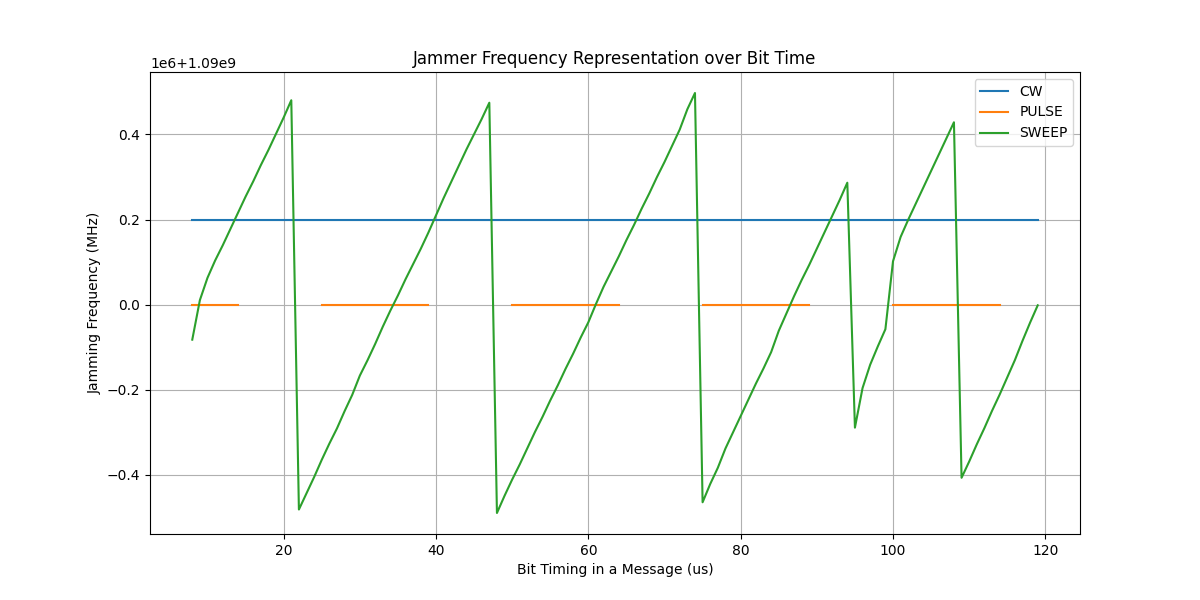
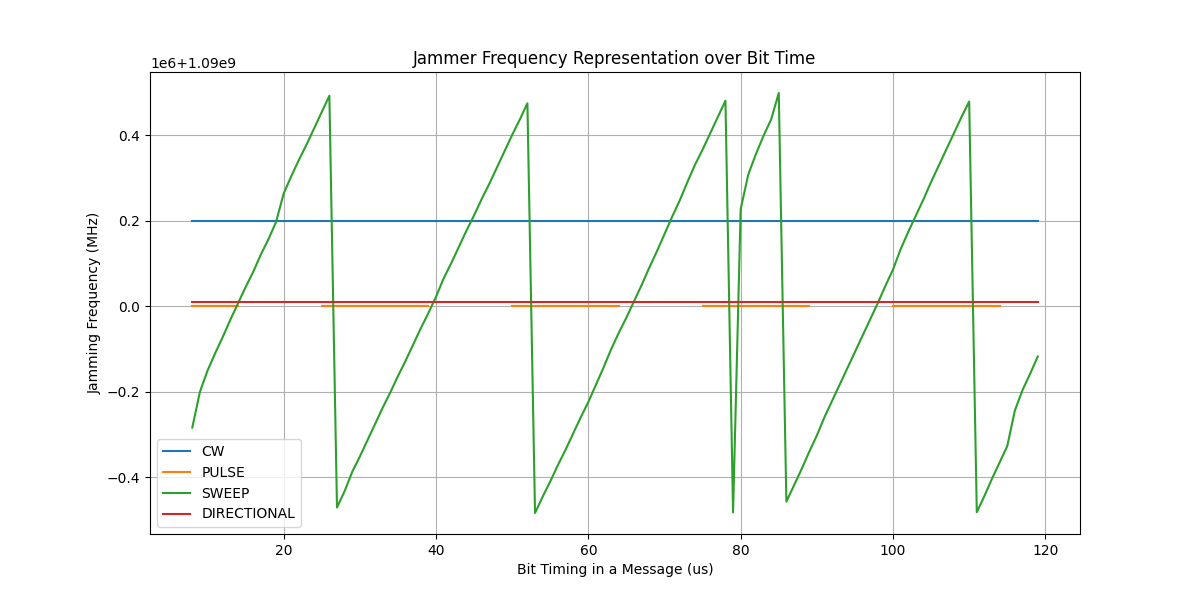
Finished implementing all jammers

Changed region(s): [[0.0925, 0.12, 0.8942, 0.84], [0.0925, 0.72, 0.2467, 0.87], [0.0925, 0.51, 0.1233, 0.54]]

diff --git a/jammer.py b/jammer.py
@@ -2,8 +2,7 @@ import numpy as np
 import random
 import time
 from typing import Optional, Dict, Tuple, List, Set
-from math import cos, radians
-
+import math
 
 # jamming_type should be one of:
 # "CW"       # Continuous Wave
@@ -29,10 +28,10 @@ class Jammer:
                     sweep_time_us: float = 100.0,  # Time for one sweep
 
                     # Directional specific parameters
-                    position: Tuple[float, float] = (0.0, 0.0),  # Jammer position
-                    direction_deg: float = 0.0,                  # Beam direction
-                    beam_width_deg: float = 30.0,                # Beam width
-                    antenna_gain_dbi: float = 10.0):             # Antenna gain
+                    position: Tuple[float, float] = (0.0, 0.0),     # Jammer position
+                    gcs_position: Tuple[float, float] = (0.0, 0.0), # GCS position
+                    beam_width_deg: float = 30.0,                   # Beam width
+                    antenna_gain_dbi: float = 10.0):                # Antenna gain
 
         # Common parameters
         self.jamming_type = jamming_type
@@ -52,12 +51,46 @@ class Jammer:
         
         # Directional parameters
         self.position = position
-        self.direction_deg = direction_deg
+        self.gcs_position = gcs_position
         self.beam_width_deg = beam_width_deg
         self.antenna_gain_dbi = antenna_gain_dbi
-        
+        self.direction_deg = self.calculate_bearing(self.position, self.gcs_position, uncertainity=True)
+
         # Internal timing
         self.start_time = time.time()
+
+
+    # This is only for beamforming jammer.
+    # Calculate azimuth to eventually align the jammer's beam to the gcs.
+    # "Uncertainty" means that the attacker is setting the antenna orientation by eye measurement, which is not accurate.
+    def calculate_bearing(self, jammer_position, gcs_position, uncertainity=False):
+        # Calculate the bearing (azimuth) from the jammer to the GCS.
+        lat1, lon1 = np.radians(jammer_position)
+        lat2, lon2 = np.radians(gcs_position)
+        delta_lon = lon2 - lon1
+
+        # sin(Δlon) * cos(lat2) gives us the east-west component
+        x = math.sin(delta_lon) * math.cos(lat2)
+
+        # cos(lat1) * sin(lat2) - sin(lat1) * coss(lat2) * cos(Δlon)
+        # gives us the north-south component            
+        y = math.cos(lat1) * math.sin(lat2) - math.sin(lat1) * math.cos(lat2) * math.cos(delta_lon)
+
+        # Calculate initial bearing using arctan of y/x components...
+        bearing = math.atan2(x, y)
+
+        # Convert bearing from radians to degrees
+        bearing_deg = math.degrees(bearing)
+
+        # This is the optimal direction towards the GCS!
+        bearing_normalized = (bearing_deg + 360) % 360
+
+        if uncertainity:
+            bearing_normalized = bearing_normalized + random.uniform(0, self.beam_width_deg / 2)
+
+        return bearing_normalized
+
+
 
     def calculate_jamming_effect(self, bit_time_us, target_lat, target_lon, for_stat_bit_frequency_jammer):
         # Calculates jamming power at given time and target location
@@ -134,9 +167,30 @@ class Jammer:
                 return self.jamming_power_dbm - power_reduction + random.uniform(-1, 1)
 
 
-        
+        # Reference:
+        # https://www.youtube.com/watch?v=A1n5Hhwtz78&t=269s
+        # https://www.youtube.com/watch?v=xMP7_PDMSC8
+
         if self.jamming_type == "DIRECTIONAL":
-            # TODO: implement directional jamming
-            pass
+            for_stat_bit_frequency_jammer.append((bit_time_us, self.center_freq))
+
+            # Calculate the exact azimuth
+            jammer_to_gcs_azimuth = self.calculate_bearing(self.position, self.gcs_position, uncertainity=False) 
+
+            angle_diff = abs((jammer_to_gcs_azimuth - self.direction_deg + 180) % 360 - 180)
+            
+            if angle_diff > self.beam_width_deg / 2:
+                return -20.0  # Outside the beam
+            
+            # Scale angle_diff to range [0,1] where 0 is center and 1 is edge of beam
+            
+            # Now calculate antenna gain based on direction to target...    
+            relative_gain = math.cos(math.radians(angle_diff) * 4) 
+            # Note: Multiplying 4 here means there are more power loss on edge of the beam
+            #       Also this means that maximum beam width should be pi/4(45 degrees)
+            #       Try to draw cosine graph if you don't understand.. :)
+
+            final_gain = self.antenna_gain_dbi * relative_gain
+            return self.jamming_power_dbm + final_gain            
             
         return float('-inf')

diff --git a/n_scen_stat.py b/n_scen_stat.py
@@ -2,6 +2,8 @@ import time
 import numpy as np
 import matplotlib.pyplot as plt
 import os
+import random
+
 from drone import Drone
 from route import RouteGenerator
 from gcs import GCS
@@ -20,6 +22,8 @@ center_lat, center_lon = 38.8977, -77.0365  # White House location
 # Initialize GCS
 gcs = GCS(center_lat, center_lon)
 gcs_pos = (center_lat, center_lon)
+jammer_pos = (38.7600, -77.1000) # This is about 1km southwest form GCS position...
+
 
 # Create a RouteGenerator instancz
 route_gen = RouteGenerator(center_lat, center_lon, num_routes=3, waypoints_per_route=5, max_offset=0.02)
@@ -57,18 +61,17 @@ def plot_bit_sequence_jammer_power(jammer_data):
     plt.figure(figsize=(12, 6))
 
     for jammer in jammer_data.items():
-        print(jammer)
         jammer_name = jammer[0]
         jammer_values = jammer[1]
         times, bit_power_jammer_values = zip(*jammer_values['bit_power'])
         plt.plot(times, bit_power_jammer_values, label=jammer_name)
 
     plt.xlabel('Bit Timing in a Message (bit)')
-    plt.ylabel('Jamming Power (dBm)')
-    plt.title('Jammer Power Representation over Bit Sequence')
+    plt.ylabel('RX Power (dBm)')
+    plt.title('RX Power in GCS over Bit-Sequence for Different jammers')
     plt.legend()
     plt.grid(True)
-    plt.savefig('results/jammer_power.png')
+    plt.savefig('results/RX_Power_jammer.png')
     plt.show()
 
 
@@ -86,8 +89,6 @@ def plot_bit_sequence_jammer_power(jammer_data):
     plt.grid(True)
     plt.savefig('results/jammer_freq.png')
     plt.show()
-
-
 
 
 
@@ -278,8 +279,11 @@ def run_simulation_jammer():
     jammers = [
         Jammer(jamming_type="CW"   , jamming_power_dbm=45, center_freq=1090e6, offset_freq=0.2e6),
         Jammer(jamming_type="PULSE", jamming_power_dbm=35, center_freq=1090e6, pulse_width_us=15.0, pulse_repetition_freq=40000.0),
-        Jammer(jamming_type="SWEEP", jamming_power_dbm=25, center_freq=1090e6, sweep_range_hz=1e6, sweep_time_us=100.0)
+        Jammer(jamming_type="SWEEP", jamming_power_dbm=25, center_freq=1090e6, sweep_range_hz=1e6, sweep_time_us=100.0),
+        Jammer(jamming_type="DIRECTIONAL", jamming_power_dbm=45, center_freq=1090e6 + 10e3, 
+            gcs_position=gcs_pos, position=jammer_pos, beam_width_deg=20.0, antenna_gain_dbi=15.0)
     ]
+    # For Directional Jammer, I added 10kHz intensionally for graph to be distinguishable
 
     for jammer in jammers:
         bit_power_jammer_data = None
@@ -319,6 +323,7 @@ def run_simulation_jammer():
 
 
 # Run simulations for each scenario and collect results
+
 results = {}
 for scenario, params in scenarios.items():
     print(f"Running scenario: {scenario}")
@@ -329,7 +334,6 @@ for scenario, params in scenarios.items():
         'latency': latency_data,
         'throughput': throughput_data
     }
-
 jammer_data = run_simulation_jammer()
 
 # Ensure the 'results' directory exists
@@ -349,5 +353,3 @@ plot_latency_data(results)
 
 # Plotting Throughput over time for each scenario
 plot_throughput_data(results)
-
-

diff --git a/n_scen_adsb_attack.py b/n_scen_adsb_attack.py
@@ -49,11 +49,14 @@ drones = [
 # Initialize the communication channel, jammer, and spoofer
 channel = ADSBChannel()
 
-#jammer = Jammer(jamming_type="CW", jamming_power_dbm=45, center_freq=1090e6, offset_freq=0.2e6)
+# jammer = Jammer(jamming_type="CW", jamming_power_dbm=45, center_freq=1090e6, offset_freq=0.2e6)
 jammer = Jammer(jamming_type="PULSE",jamming_power_dbm=45, center_freq=1090e6, pulse_width_us=15.0, pulse_repetition_freq=2000.0)
-#jammer = None
-#spoofer = Spoofer(spoof_probability=0.7, fake_drone_id="FAKE-DRONE")
-spoofer = None
+# jammer = Jammer(jamming_type="SWEEP", jamming_power_dbm=25, center_freq=1090e6, sweep_range_hz=1e6, sweep_time_us=100.0)
+# jammer = Jammer(jamming_type="DIRECTIONAL", jamming_power_dbm=45, center_freq=1090e6, position=gcs_pos, beam_width_deg=30.0, antenna_gain_dbi=15.0)
+# jammer = None
+
+spoofer = Spoofer(spoof_probability=0.7, fake_drone_id="")
+# spoofer = None
 
 
 # Create a figure for 3D plotting

diff --git a/spoofer.py b/spoofer.py
@@ -11,7 +11,7 @@ class Spoofer:
     or injecting entirely fake drones into the system.
     """
 
-    def __init__(self, spoof_probability=0.3, fake_drone_id="FAKE123"):
+    def __init__(self, spoof_probability=0.3, fake_drone_id=""):
         self.spoof_probability = spoof_probability
         self.fake_drone_id = fake_drone_id
 
